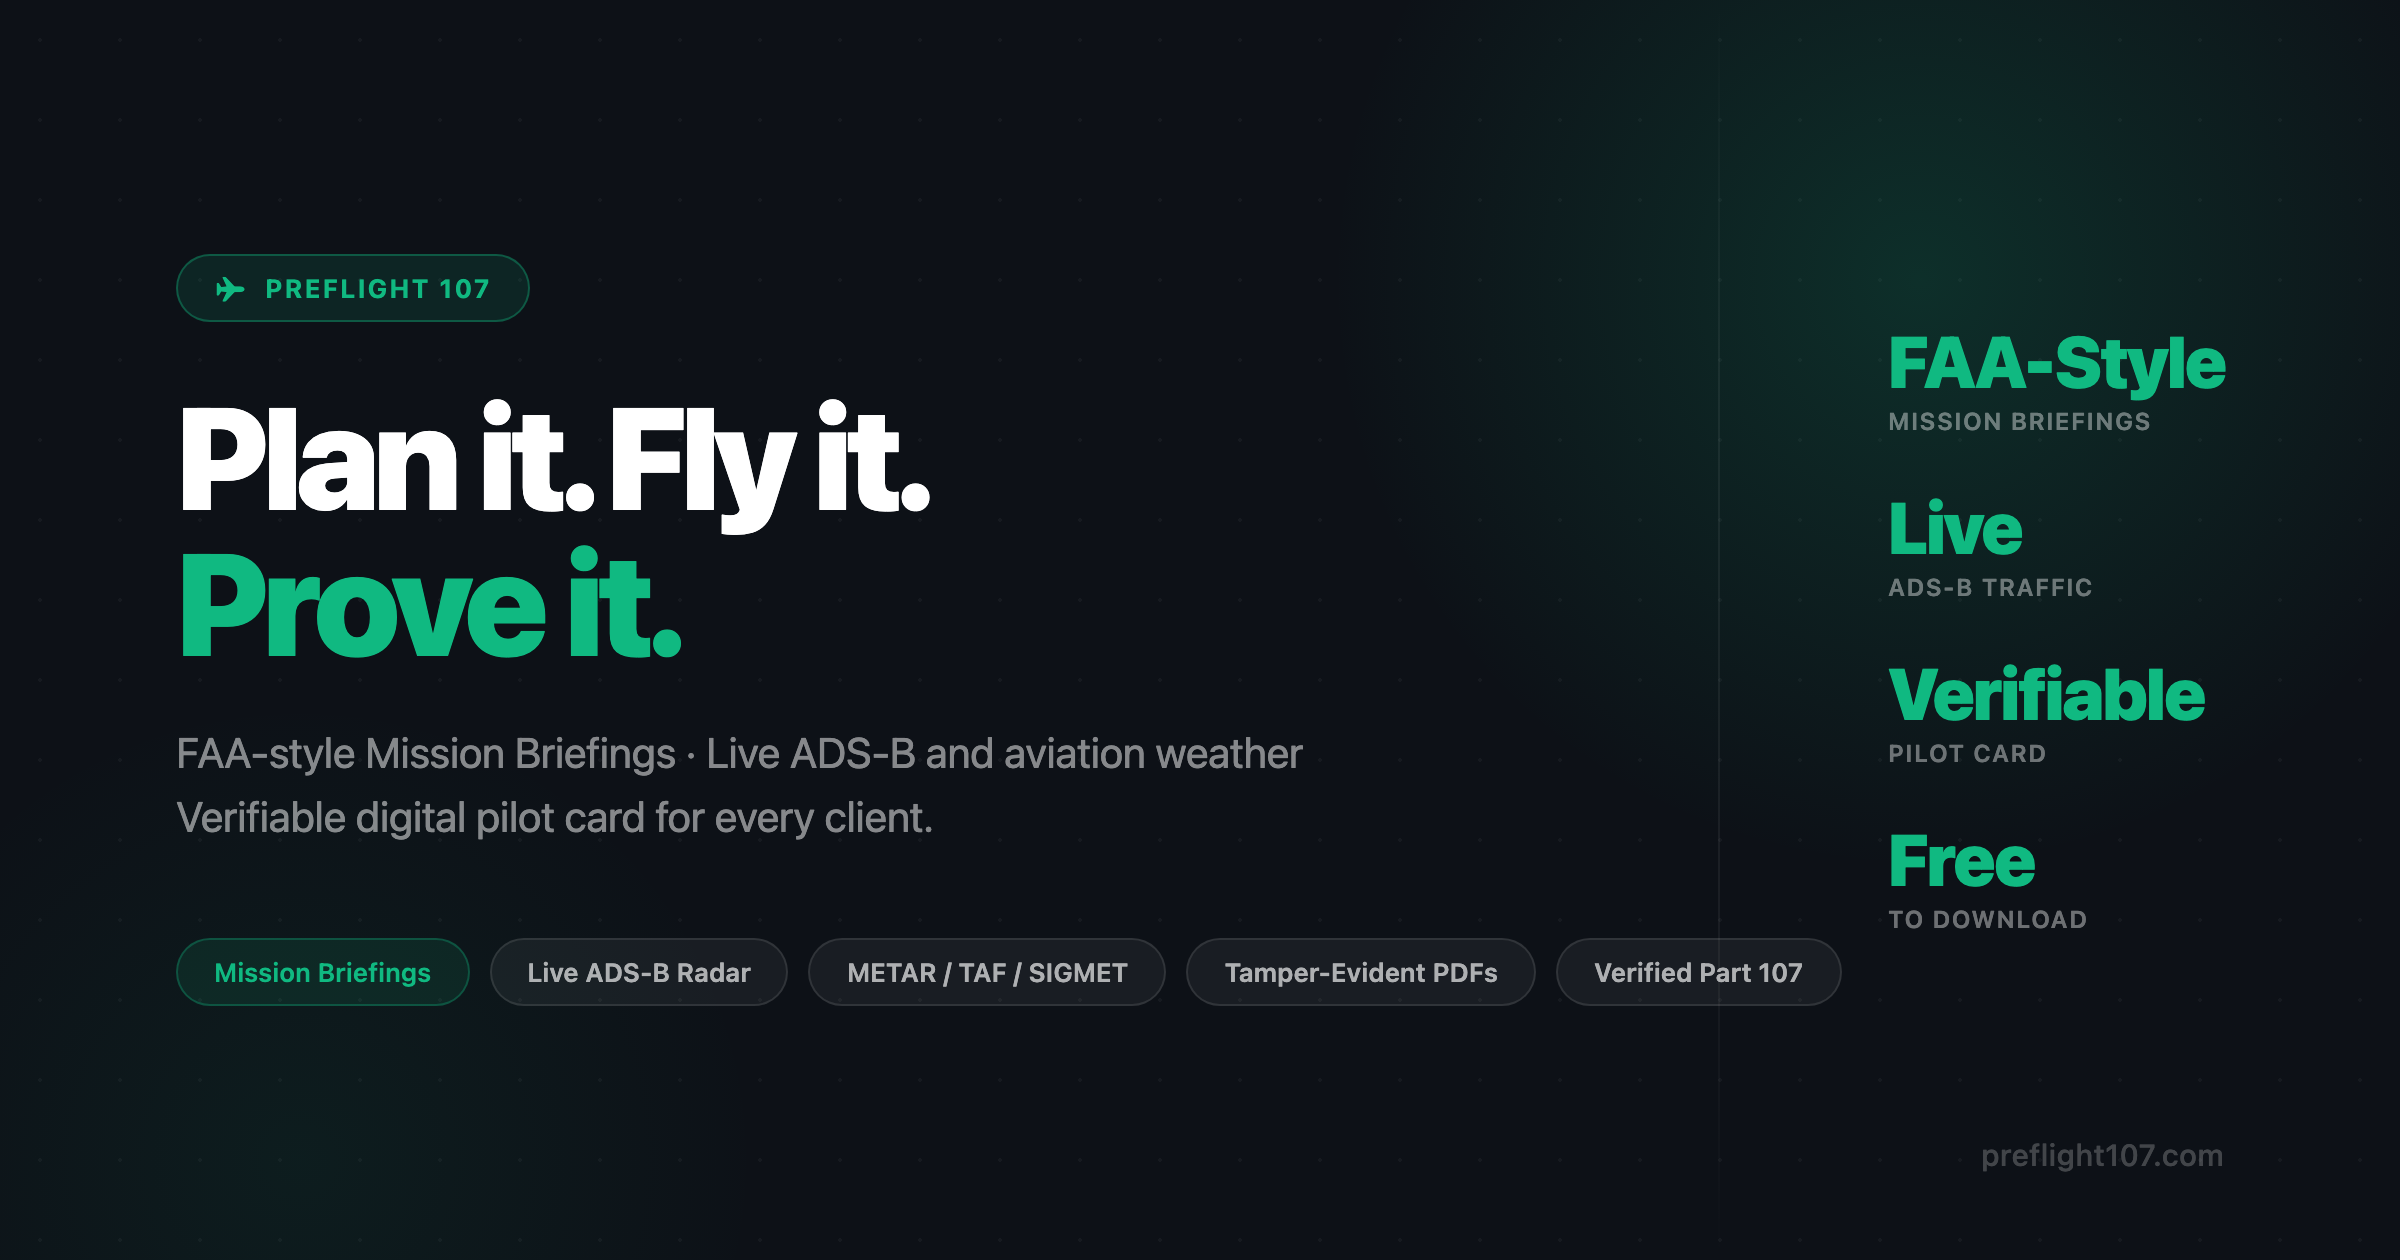
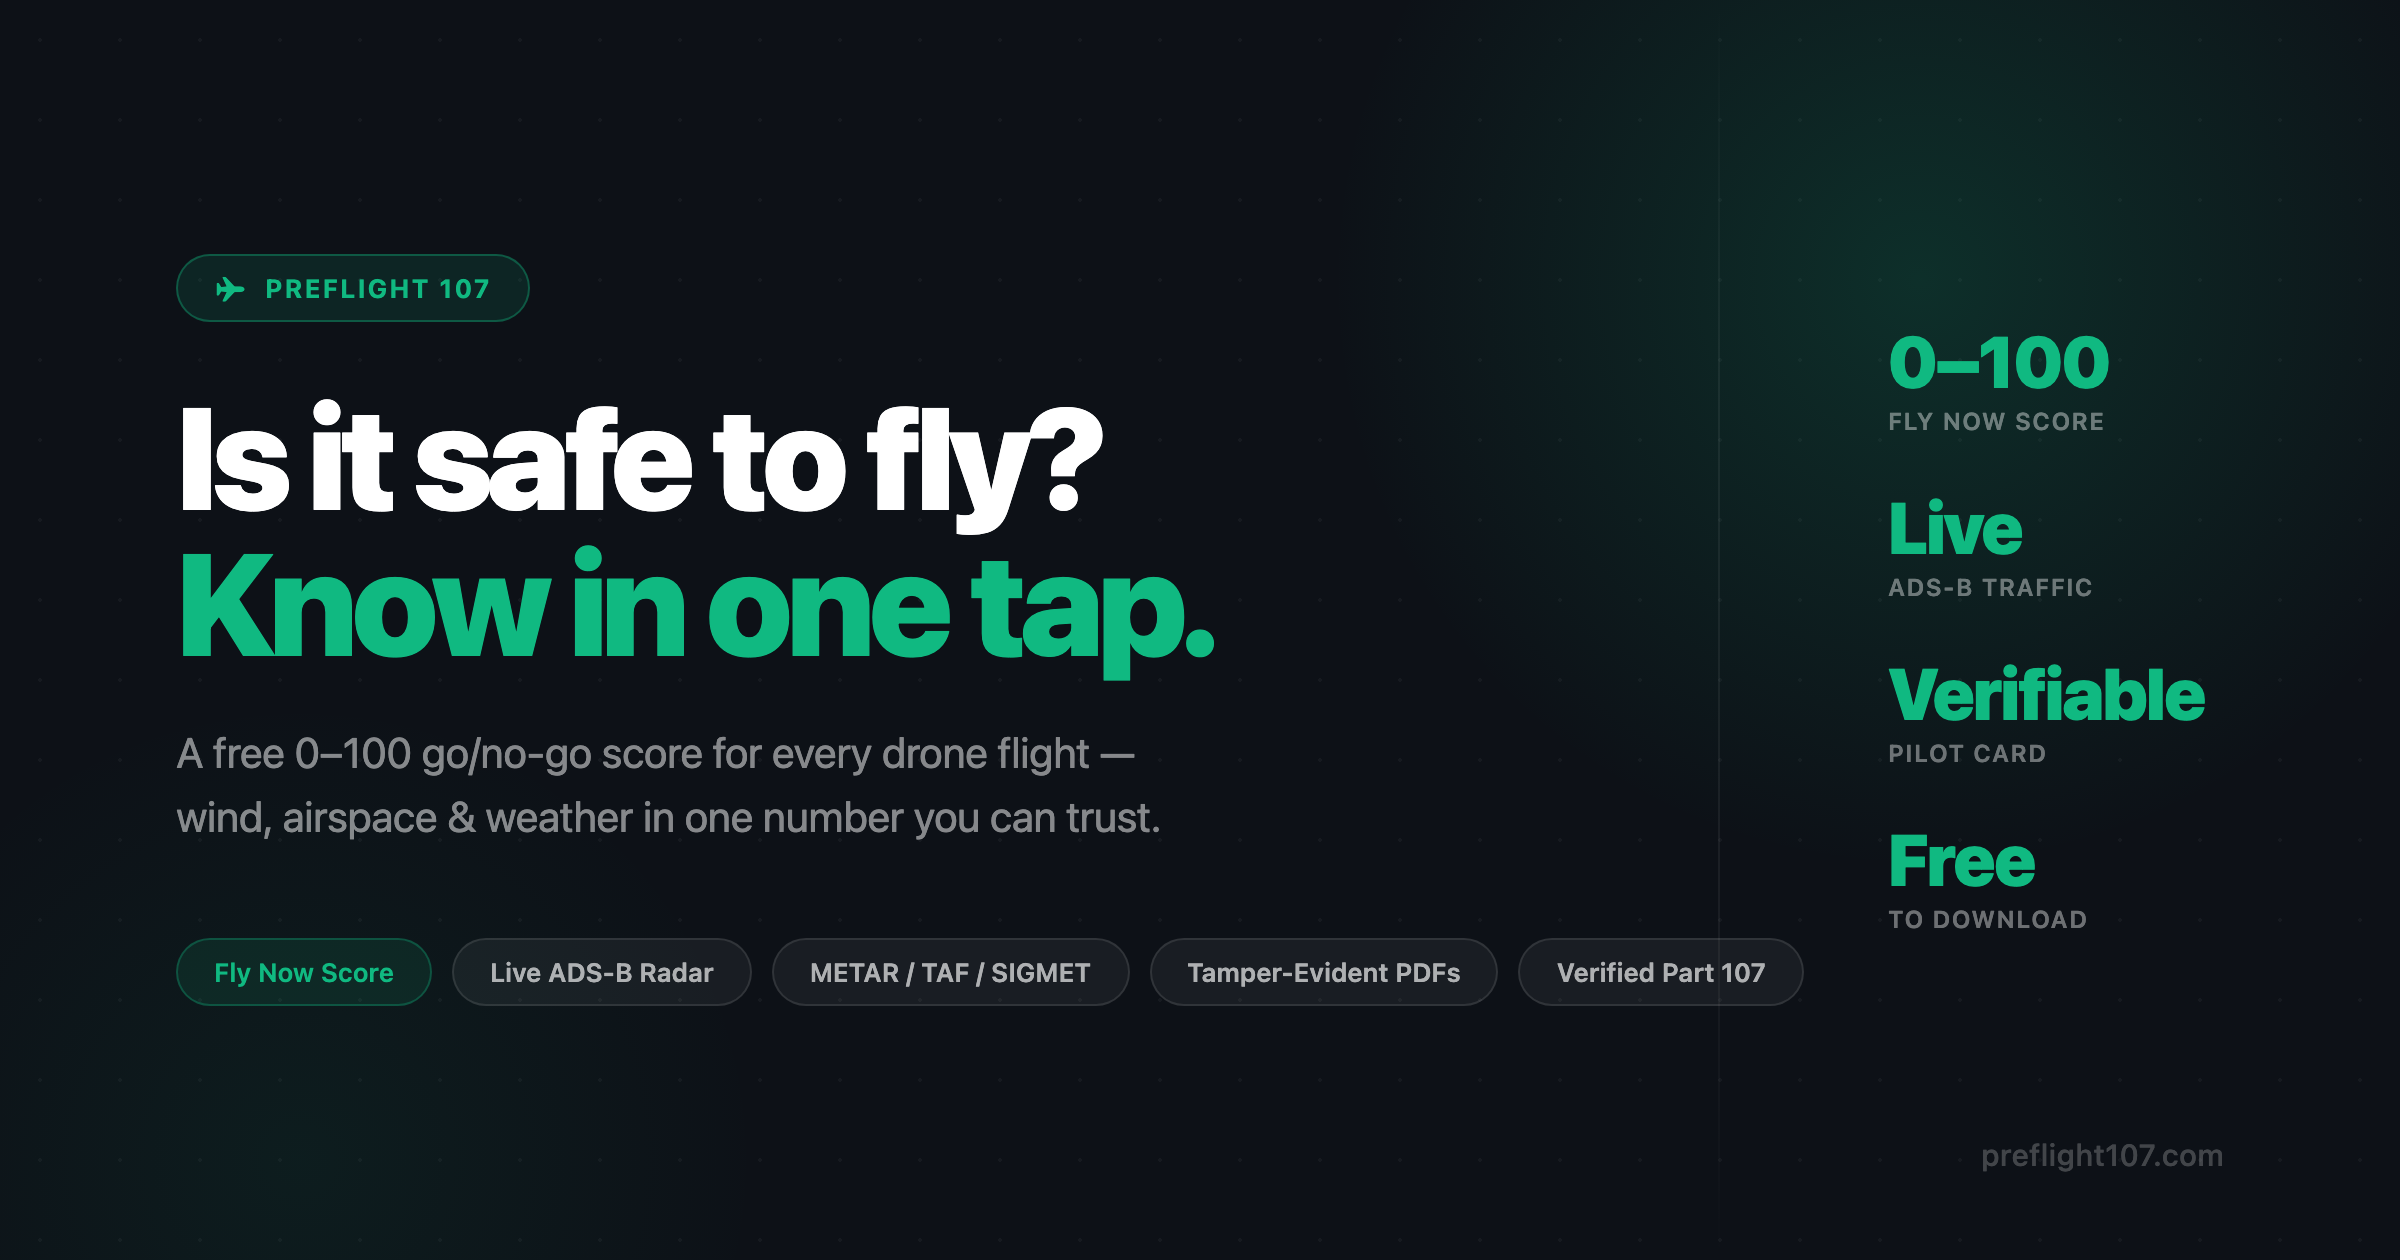
SEO/social: value-prop title + meta description + OG share image (go/no-go 'Is it safe to fly? Know in one tap')

diff --git a/index.html b/index.html
@@ -9,20 +9,20 @@
     <!-- AI training opt-out (unofficial but increasingly honored by crawlers;
          pairs with robots.txt's per-bot Disallow rules). -->
     <meta name="robots" content="noai, noimageai" />
-    <title>PreFlight 107 — Plan it. Fly it. Prove it.</title>
-    <meta name="description" content="The Part 107 operations platform — file FAA-style Mission Briefings, fly with live ADS-B and aviation weather, and share a verifiable digital pilot card with every client." />
+    <title>PreFlight 107 — Is it safe to fly? Drone weather &amp; go/no-go</title>
+    <meta name="description" content="Know if it's safe to fly in one tap — a free 0–100 go/no-go score with wind, airspace &amp; weather for every drone flight. Plus FAA-style Part 107 briefings, live ADS-B traffic &amp; a verifiable pilot card." />
     <!-- Open Graph (iMessage, Messenger, WhatsApp, Discord, Facebook) -->
     <meta property="og:type" content="website" />
     <meta property="og:url" content="https://preflight107.com/" />
-    <meta property="og:title" content="PreFlight 107 — Plan it. Fly it. Prove it." />
-    <meta property="og:description" content="The Part 107 operations platform — file FAA-style Mission Briefings, fly with live ADS-B and aviation weather, and share a verifiable digital pilot card with every client." />
+    <meta property="og:title" content="Is it safe to fly today? — PreFlight 107" />
+    <meta property="og:description" content="Know if it's safe to fly in one tap — a free 0–100 go/no-go score with wind, airspace &amp; weather for every drone flight. Plus FAA-style Part 107 briefings, live ADS-B traffic &amp; a verifiable pilot card." />
     <meta property="og:image" content="https://preflight107.com/og-image.png" />
     <meta property="og:image:width" content="1200" />
     <meta property="og:image:height" content="630" />
     <!-- Twitter / X -->
     <meta name="twitter:card" content="summary_large_image" />
-    <meta name="twitter:title" content="PreFlight 107 — Plan it. Fly it. Prove it." />
-    <meta name="twitter:description" content="The Part 107 operations platform — file FAA-style Mission Briefings, fly with live ADS-B and aviation weather, and share a verifiable digital pilot card with every client." />
+    <meta name="twitter:title" content="Is it safe to fly today? — PreFlight 107" />
+    <meta name="twitter:description" content="Know if it's safe to fly in one tap — a free 0–100 go/no-go score with wind, airspace &amp; weather for every drone flight. Plus FAA-style Part 107 briefings, live ADS-B traffic &amp; a verifiable pilot card." />
     <meta name="twitter:image" content="https://preflight107.com/og-image.png" />
     <script>
       // Restore deep-link path encoded by 404.html (GitHub Pages SPA trick)

diff --git a/public/og-preview.html b/public/og-preview.html
@@ -155,10 +155,10 @@
     <div class="badge">
       <span class="badge-icon">✈</span> PreFlight 107
     </div>
-    <h1>Plan it. Fly it.<br><em>Prove it.</em></h1>
-    <p class="tagline">FAA-style Mission Briefings · Live ADS-B and aviation weather<br>Verifiable digital pilot card for every client.</p>
+    <h1>Is it safe to fly?<br><em>Know in one tap.</em></h1>
+    <p class="tagline">A free 0–100 go/no-go score for every drone flight —<br>wind, airspace &amp; weather in one number you can trust.</p>
     <div class="pills">
-      <span class="pill pill-accent">Mission Briefings</span>
+      <span class="pill pill-accent">Fly Now Score</span>
       <span class="pill">Live ADS-B Radar</span>
       <span class="pill">METAR / TAF / SIGMET</span>
       <span class="pill">Tamper-Evident PDFs</span>
@@ -169,8 +169,8 @@
   <div class="divider"></div>
   <div class="side-stat">
     <div class="stat-item">
-      <span class="stat-val">FAA-Style</span>
-      <span class="stat-label">Mission Briefings</span>
+      <span class="stat-val">0–100</span>
+      <span class="stat-label">Fly Now Score</span>
     </div>
     <div class="stat-item">
       <span class="stat-val">Live</span>
